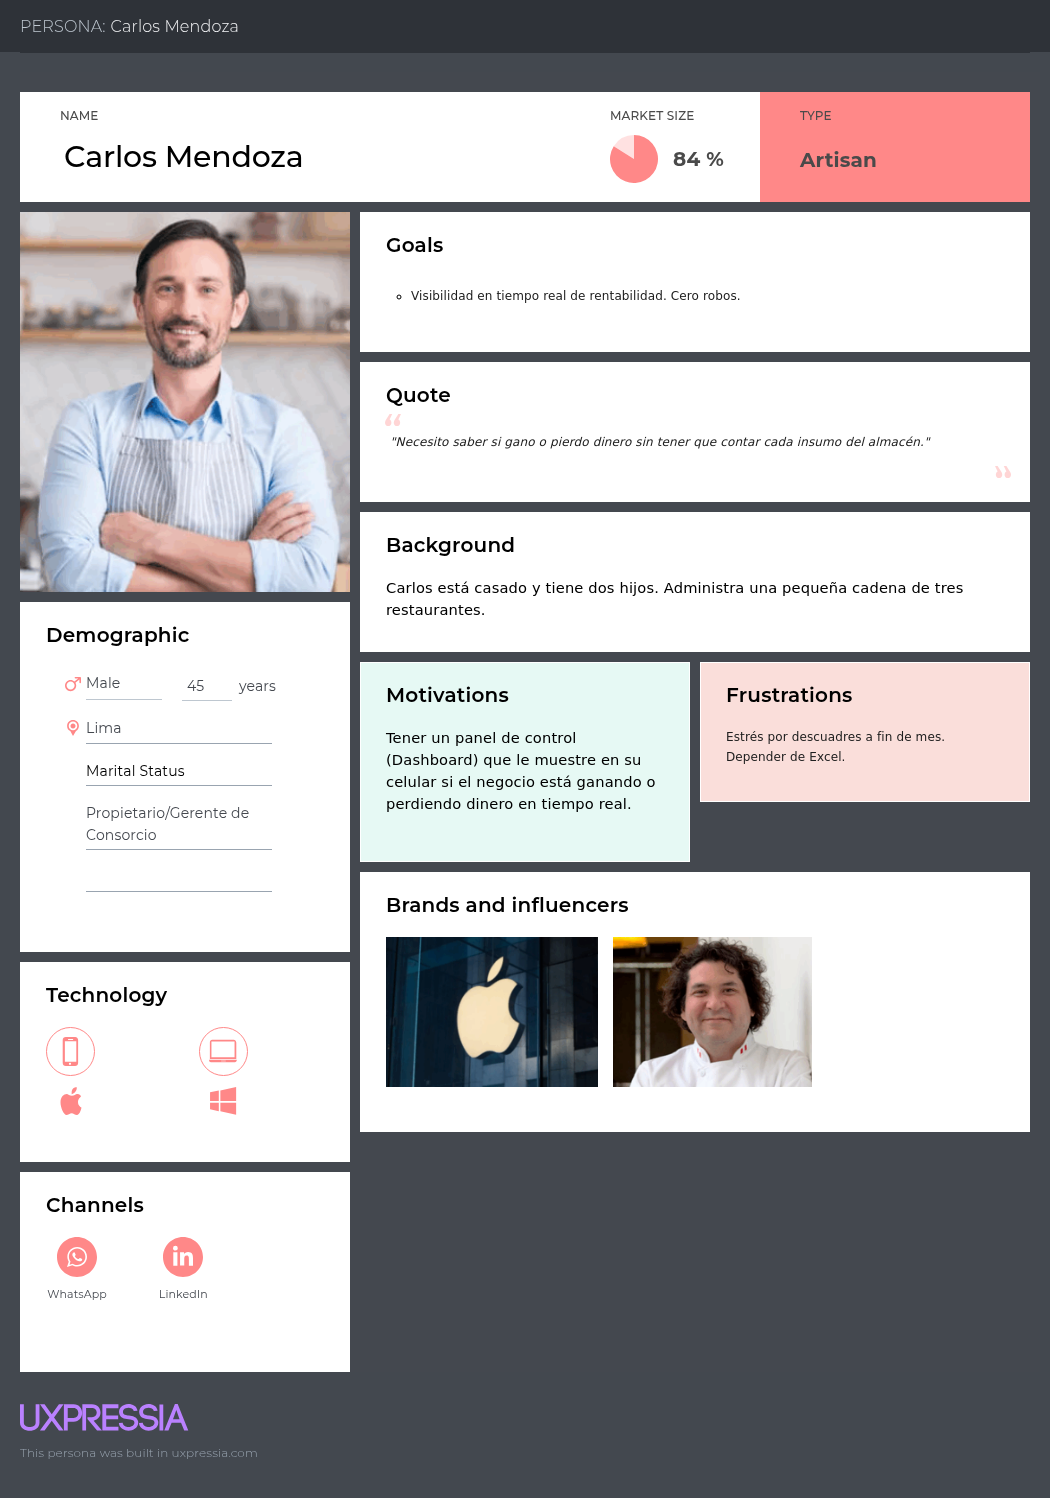
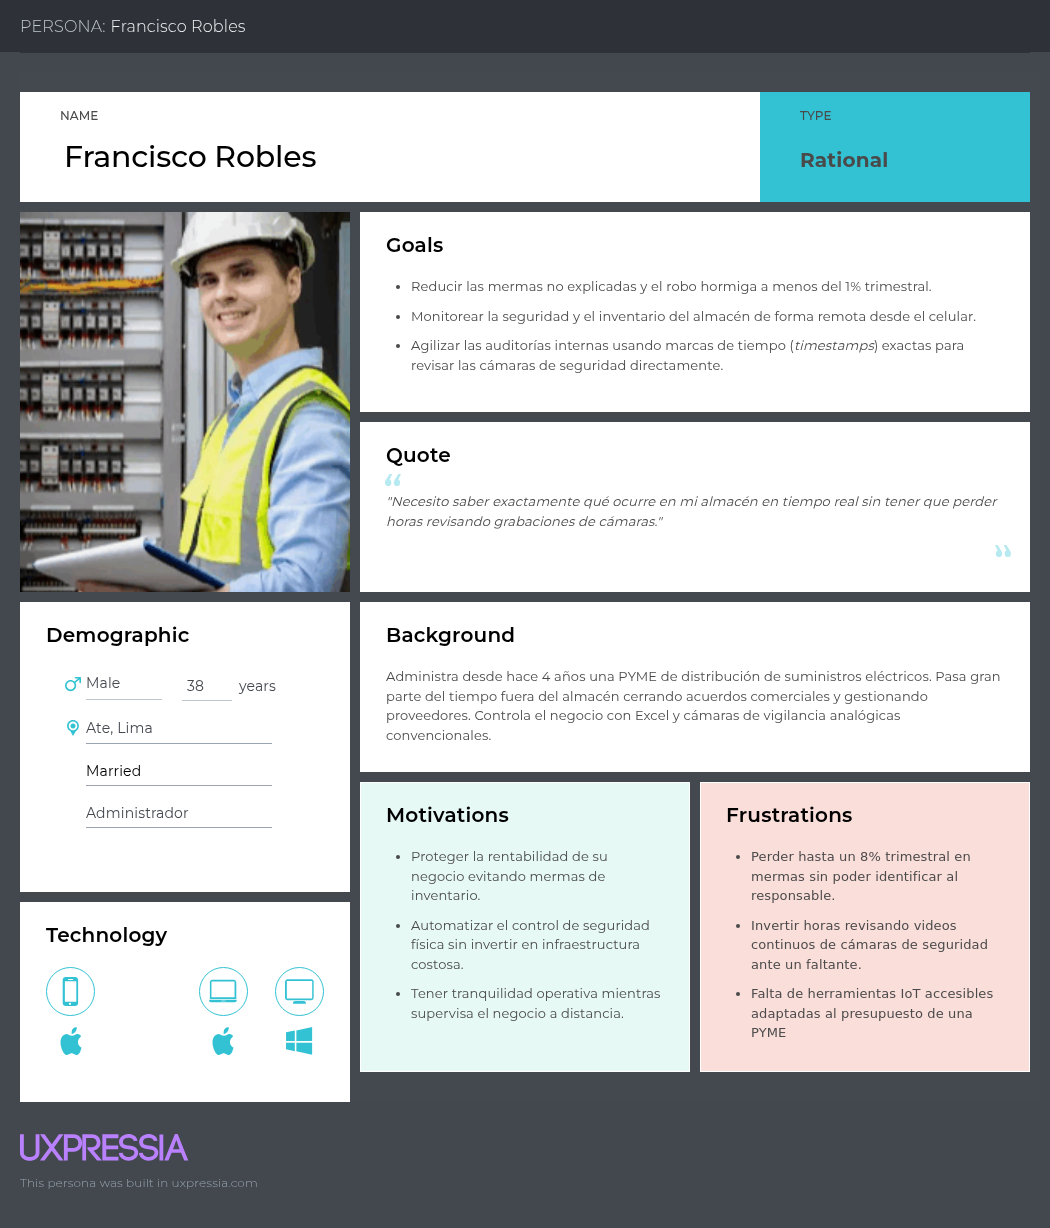
docs: agregar imagenes de user personas y contenido de needfinding

diff --git a/README.md b/README.md
@@ -724,6 +724,102 @@ Variables de análisis identificadas:
 
 <br>
 
+## 2.3. Needfinding
+A partir del análisis se identificaron necesidades recurrentes en ambos segmentos. Estas necesidades permiten orientar los siguientes artefactos de diseño.
+
+Necesidades identificadas
+Registrar las entradas y salidas de productos de manera rápida.
+Mantener actualizado el stock disponible.
+Identificar quién realizó cada movimiento.
+Registrar automáticamente la fecha y hora de las operaciones.
+Detectar diferencias entre movimientos digitales y eventos físicos.
+Recibir alertas ante situaciones anómalas.
+Consultar un historial de eventos.
+Reducir el tiempo necesario para investigar incidentes.
+Facilitar la consulta remota de información.
+Mantener una interfaz sencilla para el personal operativo.
+
+
+### 2.3.1. User Personas
+Segmento 01: 
+![User Persona Segmento 01](./images/2.3.1.1.png)
+
+Segmento 02: 
+![User Persona Segmento 02](./images/2.3.1.2.png)
+
+#### 2.3.2. User Task Matrix
+<h3>Priorización de Tareas por Segmento</h3>
+
+<table>
+  <thead>
+    <tr>
+      <th>Tareas</th>
+      <th>(Segmento 1) Francisco Robles</th>
+      <th>(Segmento 2) Carla Paredes</th>
+    </tr>
+  </thead>
+  <tbody>
+    <tr>
+      <td><strong>Inicio de Sesión y Autenticación</strong></td>
+      <td>Media</td>
+      <td>Alta</td>
+    </tr>
+    <tr>
+      <td><strong>Gestión de Permisos y Roles</strong></td>
+      <td>Alta</td>
+      <td>Baja</td>
+    </tr>
+    <tr>
+      <td><strong>Registro de Entradas y Salidas</strong></td>
+      <td>Baja</td>
+      <td>Alta</td>
+    </tr>
+    <tr>
+      <td><strong>Generación Automática de Timestamps</strong></td>
+      <td>Alta</td>
+      <td>Alta</td>
+    </tr>
+    <tr>
+      <td><strong>Monitoreo IoT y Sensores de Puertas</strong></td>
+      <td>Alta</td>
+      <td>Media</td>
+    </tr>
+    <tr>
+      <td><strong>Alertas e Incidencias en Tiempo Real</strong></td>
+      <td>Alta</td>
+      <td>Baja</td>
+    </tr>
+    <tr>
+      <td><strong>Dashboard Centralizado y Reportes</strong></td>
+      <td>Alta</td>
+      <td>Baja</td>
+    </tr>
+    <tr>
+      <td><strong>Consulta Rápida de Inventario</strong></td>
+      <td>Baja</td>
+      <td>Baja</td>
+    </tr>
+  </tbody>
+</table>
+
+##### 2.3.3. User Journey Mapping
+
+Segmento 01: 
+![User Journey Map Segmento 01](./images/2.3.3.1.png)
+
+Segmento 02:
+![User Journey Map Segmento 02](./images/2.3.3.2.png)
+
+
+###### 2.3.4. Empathy Mapping
+
+Segmento 01:
+![Empathy Map Segmento 01](./images/2.3.4.1.png)
+
+Segmento 02: 
+![Empathy Map Segmento 01](./images/2.3.4.2.png)
+
+
 ## 4.4. Web Applications UX/UI Design.
 
 El diseño de la experiencia de usuario (UX) y de la interfaz (UI) de la plataforma NodeSecure se ha centrado en la operatividad bajo presión. Entendemos que un jefe de seguridad o un dueño de negocio entra a la aplicación web buscando respuestas rápidas: "¿Coincide mi inventario digital con la mercadería física?", "¿Hubo alguna salida de stock no registrada?". Por ello, la UX prioriza la conciliación del inventario en tiempo real, la gestión de entradas/salidas y la visualización de discrepancias detectadas por los sensores IoT. La UI, basada en Material Design, utiliza una estética limpia y profesional que reduce la carga cognitiva, permitiendo que el usuario identifique anomalías de stock o accesos mediante el uso estratégico de colores semánticos (rojo para discrepancias, verde para stock conciliado).
